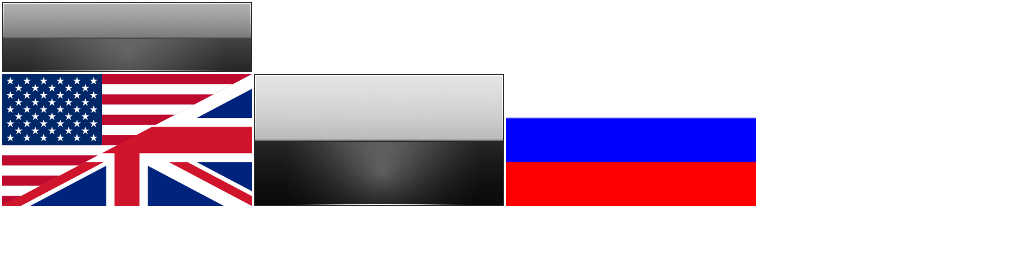
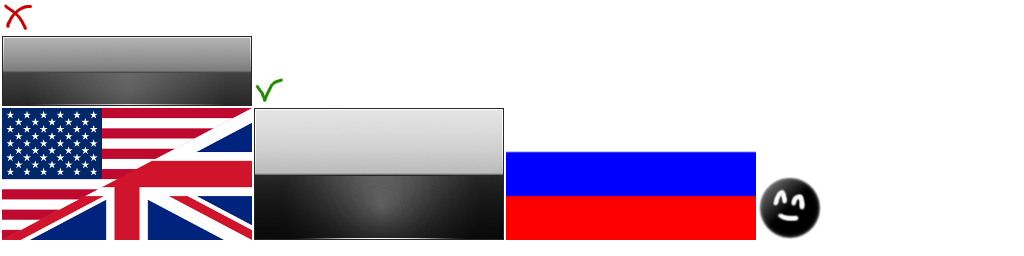
Added GameScreen with accel

diff --git a/core/src/ga/uabart/catcher/screens/GameScreen.java b/core/src/ga/uabart/catcher/screens/GameScreen.java
@@ -6,41 +6,43 @@ import com.badlogic.gdx.InputProcessor;
 import com.badlogic.gdx.Screen;
 import com.badlogic.gdx.graphics.OrthographicCamera;
 import com.badlogic.gdx.graphics.Texture;
+import com.badlogic.gdx.graphics.g2d.BitmapFont;
 import com.badlogic.gdx.graphics.g2d.SpriteBatch;
 import com.badlogic.gdx.graphics.g2d.TextureRegion;
-import com.badlogic.gdx.math.Vector3;
+import com.badlogic.gdx.math.Matrix4;
 import ga.uabart.catcher.Catcher;
 import ga.uabart.catcher.images.ImageProvider;
-import ga.uabart.catcher.view.Button;
+import ga.uabart.catcher.sound.SoundManager;
 
-public class MenuScreen implements Screen, InputProcessor{
+public class GameScreen implements Screen, InputProcessor {
 
-    private String TAG = MenuScreen.class.getName();
-
-    private ImageProvider imageProvider;
+    private SpriteBatch batch;
 
     private OrthographicCamera camera;
 
-    private Button[] buttons;
-
-    private Texture background;
-    private TextureRegion logo;
-    private SpriteBatch batch;
     private Catcher game;
-    private int logoX;
-    private int logoY;
 
-    public MenuScreen(Catcher game) {
+    private ImageProvider imageProvider;
+    private Texture background;
+    private TextureRegion isAccel;
+    private TextureRegion flag;
+    private TextureRegion ball;
+
+    private float startRot = 0;
+
+    private float startX = 0, startY = 0;
+
+    private BitmapFont font;
+
+    private SoundManager soundManager;
+
+    public GameScreen(Catcher game) {
         super();
         this.game = game;
     }
 
     @Override
     public boolean keyDown(int keycode) {
-        if(keycode == Input.Keys.BACK){
-            Gdx.app.exit();
-            return true;
-        }
         return false;
     }
 
@@ -56,27 +58,7 @@ public class MenuScreen implements Screen, InputProcessor{
 
     @Override
     public boolean touchDown(int screenX, int screenY, int pointer, int button) {
-        Vector3 touchPos = new Vector3();
-        touchPos.set(screenX, screenY, 0);
-        camera.unproject(touchPos);
-
-        for(int i=0;i<buttons.length;i++) {
-            if (buttons[i].isPressed(touchPos)) {
-                Gdx.app.log(TAG, "Button " + (i+1) + " pressed");
-                switch (i) {
-                    case 0:
-                        game.gotoGameScreen();
-                        break;
-                    case 1:
-                        game.gotoLangScreen();
-                        break;
-                    default:
-                        Gdx.app.exit();
-                }
-                break;
-            }
-        }
-        return true;
+        return false;
     }
 
     @Override
@@ -103,23 +85,24 @@ public class MenuScreen implements Screen, InputProcessor{
     public void show() {
         imageProvider = game.getImageProvider();
         background = imageProvider.getMainBackground();
+        boolean available = Gdx.input.isPeripheralAvailable(Input.Peripheral.Accelerometer);
+        if (available) {
+            isAccel = imageProvider.getYes();
+        } else {
+            isAccel = imageProvider.getNo();
+        }
+        flag = imageProvider.getFlagEn();
+        ball = imageProvider.getBall();
 
-        buttons = new Button[2];
-        TextureRegion buttonBg = imageProvider.getButton();
-        buttons[0] = new Button(buttonBg, imageProvider.getStart());
-        buttons[1] = new Button(buttonBg, imageProvider.getKids());
+        font = new BitmapFont(Gdx.files.internal("fonts/poetsen.fnt"),
+                Gdx.files.internal("fonts/poetsen.png"), false);
+
+        soundManager = game.getSoundManager();
 
         camera = new OrthographicCamera();
         camera.setToOrtho(false, imageProvider.getScreenWidth(), imageProvider.getScreenHeight());
 
         batch = new SpriteBatch();
-
-        logo = imageProvider.getLogo();
-        logoX = (imageProvider.getScreenWidth() - logo.getRegionWidth()) / 2;
-        logoY = (imageProvider.getScreenHeight() - logo.getRegionHeight() - 10)-50;
-
-        buttons[0].setPos(275, 200);
-        buttons[1].setPos(275, 100);
 
         Gdx.input.setInputProcessor(this);
         Gdx.input.setCatchBackKey(true);
@@ -131,11 +114,29 @@ public class MenuScreen implements Screen, InputProcessor{
         batch.setProjectionMatrix(camera.combined);
         batch.begin();
         batch.draw(background, 0, 0);
-        batch.draw(logo, logoX, logoY);
-        for (Button button : buttons) {
-            button.draw(batch);
-        }
+        batch.draw(isAccel, 50, 50);
+        Matrix4 matrix = new Matrix4();
+        Gdx.input.getRotationMatrix(matrix.val);
+        float accelX = Gdx.input.getAccelerometerX();
+        float accelY = Gdx.input.getAccelerometerY();
+        float accelZ = Gdx.input.getAccelerometerZ();
+
+        float movementRot = (accelY - startRot) * 0.1f + startRot;
+
+        float movementX = startX + accelY * 0.5f;
+        float movementY = startY - accelX * 0.5f;
+        if (movementX > 800) movementX = 800;
+        if (movementX < 0) movementX = 0;
+        if (movementY > 480) movementY = 480;
+        if (movementY < 0) movementY = 0;
+        batch.draw(ball, movementX, movementY);
+
+        batch.draw(flag, 300, 200, 250, 132, 250, 132, 1, 1, movementRot * 9.5f);
+        font.draw(batch, "XYZ:" + accelX + "|" + accelY + "|" + accelZ, 5, 470);
         batch.end();
+        startRot = movementRot;
+        startX = movementX;
+        startY = movementY;
     }
 
     @Override
@@ -160,8 +161,6 @@ public class MenuScreen implements Screen, InputProcessor{
 
     @Override
     public void dispose() {
-        if (batch != null) {
-            batch.dispose();
-        }
+
     }
 }

diff --git a/core/src/ga/uabart/catcher/Catcher.java b/core/src/ga/uabart/catcher/Catcher.java
@@ -1,15 +1,20 @@
 package ga.uabart.catcher;
 
 import com.badlogic.gdx.Game;
+import com.badlogic.gdx.Gdx;
 import ga.uabart.catcher.images.ImageProvider;
+import ga.uabart.catcher.screens.GameScreen;
 import ga.uabart.catcher.screens.LangScreen;
 import ga.uabart.catcher.screens.MenuScreen;
+import ga.uabart.catcher.sound.SoundManager;
 
 public class Catcher extends Game {
 
     private ImageProvider imageProvider;
     private LangScreen langScreen;
     private MenuScreen menuScreen;
+    private GameScreen gameScreen;
+    private SoundManager soundManager;
 
     public void gotoLangScreen() {
         setScreen(new LangScreen(this));
@@ -17,13 +22,18 @@ public class Catcher extends Game {
     public void gotoMenuScreen() {
         setScreen(new MenuScreen(this));
     }
+    public void gotoGameScreen() {
+        setScreen(new GameScreen(this));
+    }
 
     public ImageProvider getImageProvider() {
         return imageProvider;
     }
 
     public void loadLanguage(String locale){
+        long startTime = System.currentTimeMillis();
         imageProvider.loadLanguage(locale);
+        Gdx.app.log("Time", "Time elapsed: " + (System.currentTimeMillis() - startTime) + "ms");
     }
 
 	@Override
@@ -32,6 +42,7 @@ public class Catcher extends Game {
         imageProvider.loadAtlas();
         langScreen = new LangScreen(this);
         menuScreen = new MenuScreen(this);
+        soundManager = new SoundManager();
 
         gotoLangScreen();
 	}
@@ -40,5 +51,9 @@ public class Catcher extends Game {
     public void dispose() {
         imageProvider.dispose();
         langScreen.dispose();
+    }
+
+    public SoundManager getSoundManager() {
+        return soundManager;
     }
 }

diff --git a/core/src/ga/uabart/catcher/sound/SoundManager.java b/core/src/ga/uabart/catcher/sound/SoundManager.java
@@ -1,0 +1,65 @@
+package ga.uabart.catcher.sound;
+
+import com.badlogic.gdx.Gdx;
+import com.badlogic.gdx.audio.Sound;
+
+public class SoundManager {
+
+    private boolean isSoundOn;
+
+    private Sound catchSound;
+
+    private Sound missSound;
+
+    private Sound tictacSound;
+
+    private Sound dingdongSound;
+
+    private Sound bellSound;
+
+    public void setSoundOn(boolean isSoundOn) {
+        this.isSoundOn = isSoundOn;
+    }
+
+    public SoundManager() {
+
+    }
+    public void load() {
+        catchSound = Gdx.audio.newSound(Gdx.files.internal("uaBArt - Coin.mp3"));
+        missSound = Gdx.audio.newSound(Gdx.files.internal("uaBArt - Miss.mp3"));
+        tictacSound = Gdx.audio.newSound(Gdx.files.internal("uaBArt - TicTac.mp3"));
+        dingdongSound = Gdx.audio.newSound(Gdx.files.internal("uaBArt - Finish.mp3"));
+        bellSound = Gdx.audio.newSound(Gdx.files.internal("uaBArt - Bell.mp3"));
+    }
+
+    public void playCatchSound() {
+        if (isSoundOn) {
+            catchSound.play();
+        }
+    }
+
+    public void playDingDongSound() {
+        if (isSoundOn) {
+            dingdongSound.play();
+        }
+    }
+
+    public void playMissSound() {
+        if (isSoundOn) {
+            missSound.play();
+        }
+    }
+
+    public void playTicTacSound() {
+        if (isSoundOn) {
+            tictacSound.play();
+        }
+    }
+
+    public void playBellSound() {
+        if (isSoundOn) {
+            bellSound.play();
+        }
+    }
+
+}

diff --git a/core/src/ga/uabart/catcher/images/ImageProvider.java b/core/src/ga/uabart/catcher/images/ImageProvider.java
@@ -48,6 +48,10 @@ public class ImageProvider {
         return mainBackground;
     }
 
+    public TextureRegion getBall() {
+        return atlas.findRegion("Ball");
+    }
+
     public TextureRegion getFlagEn() {
         return atlas.findRegion("FlagEn");
     }
@@ -58,6 +62,14 @@ public class ImageProvider {
 
     public TextureRegion getFlagOverlay() {
         return atlas.findRegion("FlagOverlay");
+    }
+
+    public TextureRegion getYes() {
+        return atlas.findRegion("Yes");
+    }
+
+    public TextureRegion getNo() {
+        return atlas.findRegion("No");
     }
 
     public TextureRegion getButton() {
@@ -75,6 +87,5 @@ public class ImageProvider {
     public TextureRegion getLogo() {
         return textAtlas.findRegion("Logo");
     }
-
 
 }
